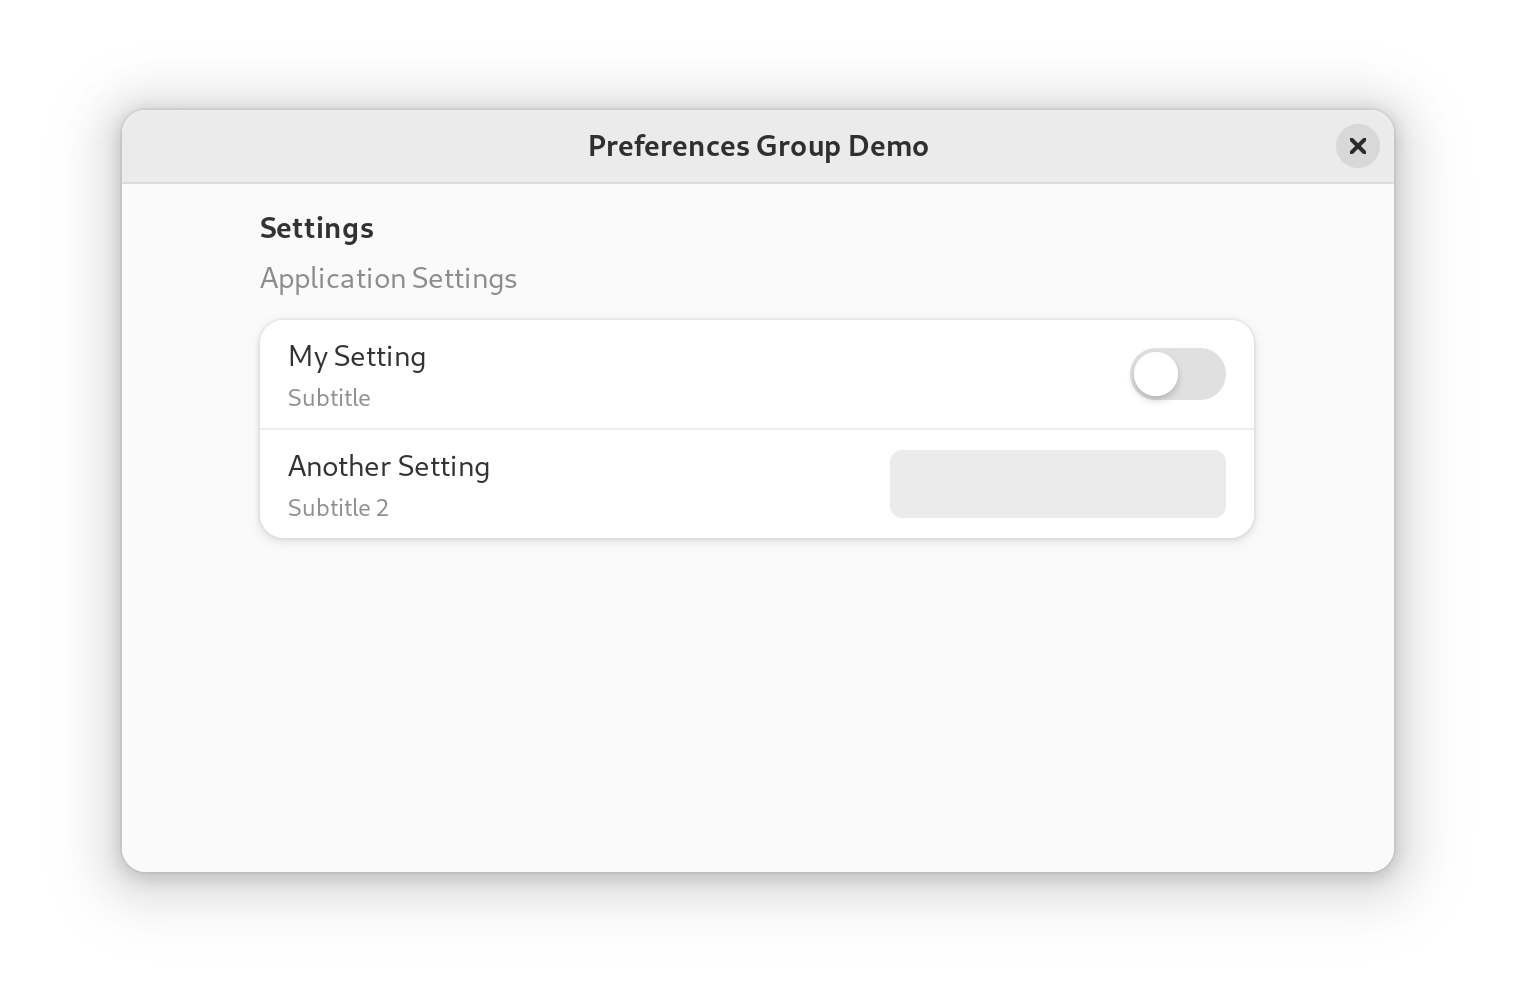
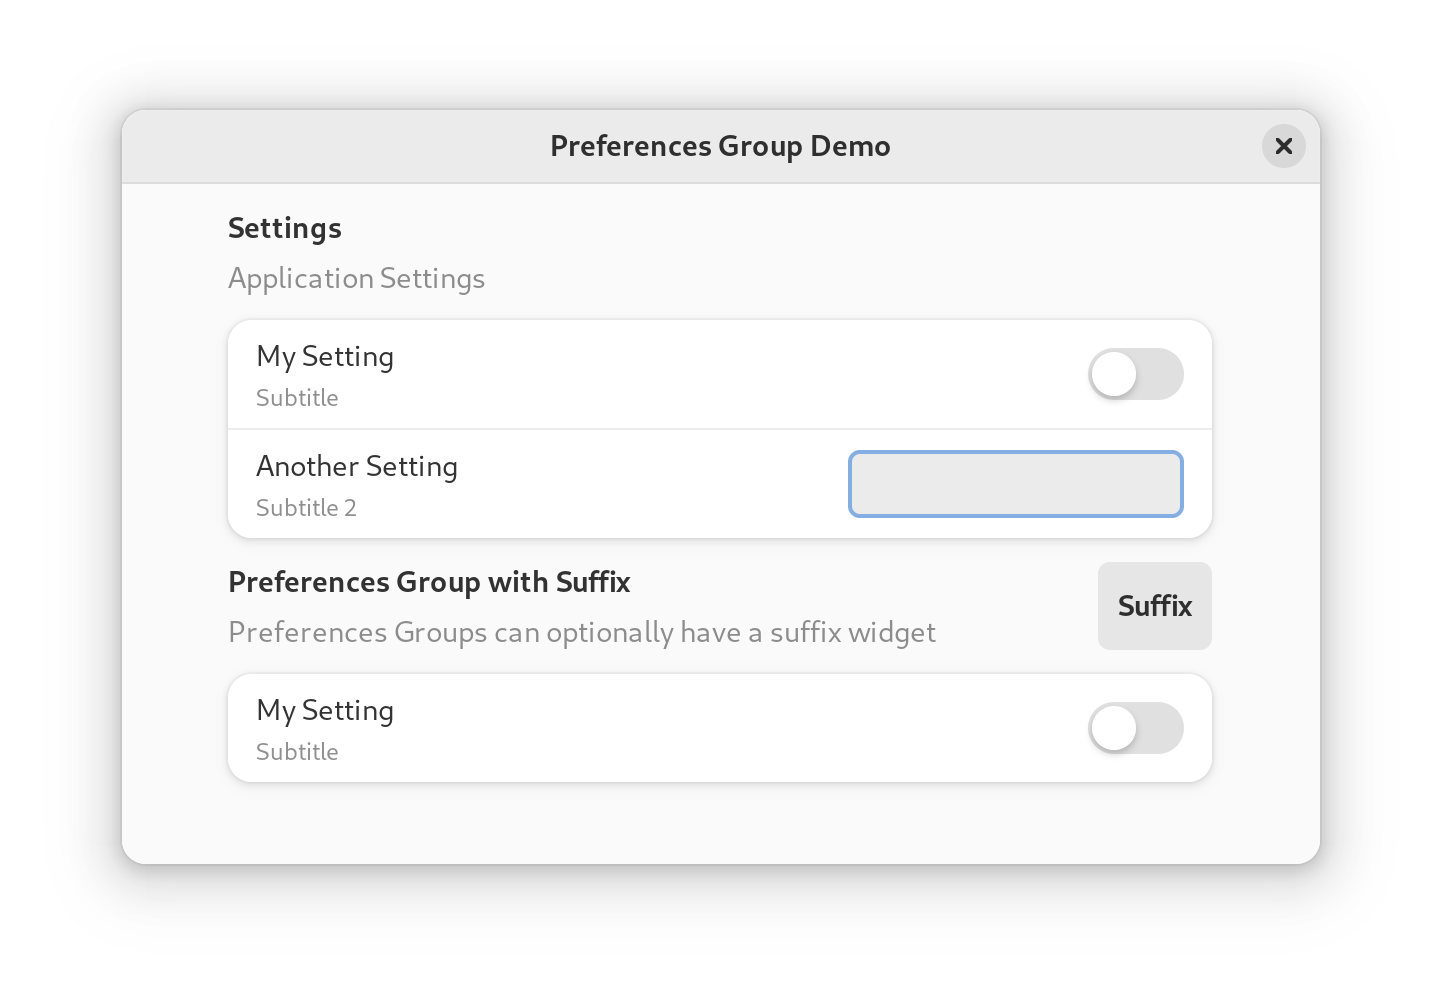
Update documentation

diff --git a/examples/README.md b/examples/README.md
@@ -126,12 +126,20 @@ The `widgets` directory contains examples for how to use different widgets.
     <th>Image</th>
   </tr>
   <tr>
+    <td><a href="widgets/adw/combo_row.nim">Combo Row</a></td>
+    <td><img alt="Combo Row" src="/docs/assets/examples/combo_row.png" width="684px"></td>
+  </tr>
+  <tr>
+    <td><a href="widgets/adw/expander_row.nim">Expander Row</a></td>
+    <td><img alt="Expander Row" src="/docs/assets/examples/expander_row.png" width="803px"></td>
+  </tr>
+  <tr>
     <td><a href="widgets/adw/flap.nim">Flap</a></td>
     <td><img alt="Flap" src="/docs/assets/examples/flap.png" width="622px"></td>
   </tr>
   <tr>
     <td><a href="widgets/adw/preferences_group.nim">Preferences Group</a></td>
-    <td><img alt="Preferences Group" src="/docs/assets/examples/preferences_group.png" width="758px"></td>
+    <td><img alt="Preferences Group" src="/docs/assets/examples/preferences_group.png" width="721px"></td>
   </tr>
   <tr>
     <td><a href="widgets/adw/window_title.nim">Window Title</a></td>

diff --git a/docs/widgets_adwaita.md b/docs/widgets_adwaita.md
@@ -173,6 +173,16 @@ renderable ExpanderRow of PreferencesRow
   - `hAlign = AlignFill`
   - `vAlign = AlignFill`
 
+###### Example
+
+```nim
+ExpanderRow:
+  title = "Expander Row"
+  for it in 0 ..< 3:
+    ActionRow {.addRow.}:
+      title = "Nested Row " & $it
+```
+
 
 ## ComboRow
 
@@ -189,6 +199,18 @@ renderable ComboRow of ActionRow
 ###### Events
 
 - select: `proc (item: int)`
+
+###### Example
+
+```nim
+ComboRow:
+  title = "Combo Row"
+  items = @["Option 1", "Option 2", "Option 3"]
+  selected = app.selected
+  proc select(item: int) =
+    app.selected = item
+
+```
 
 
 ## Flap
